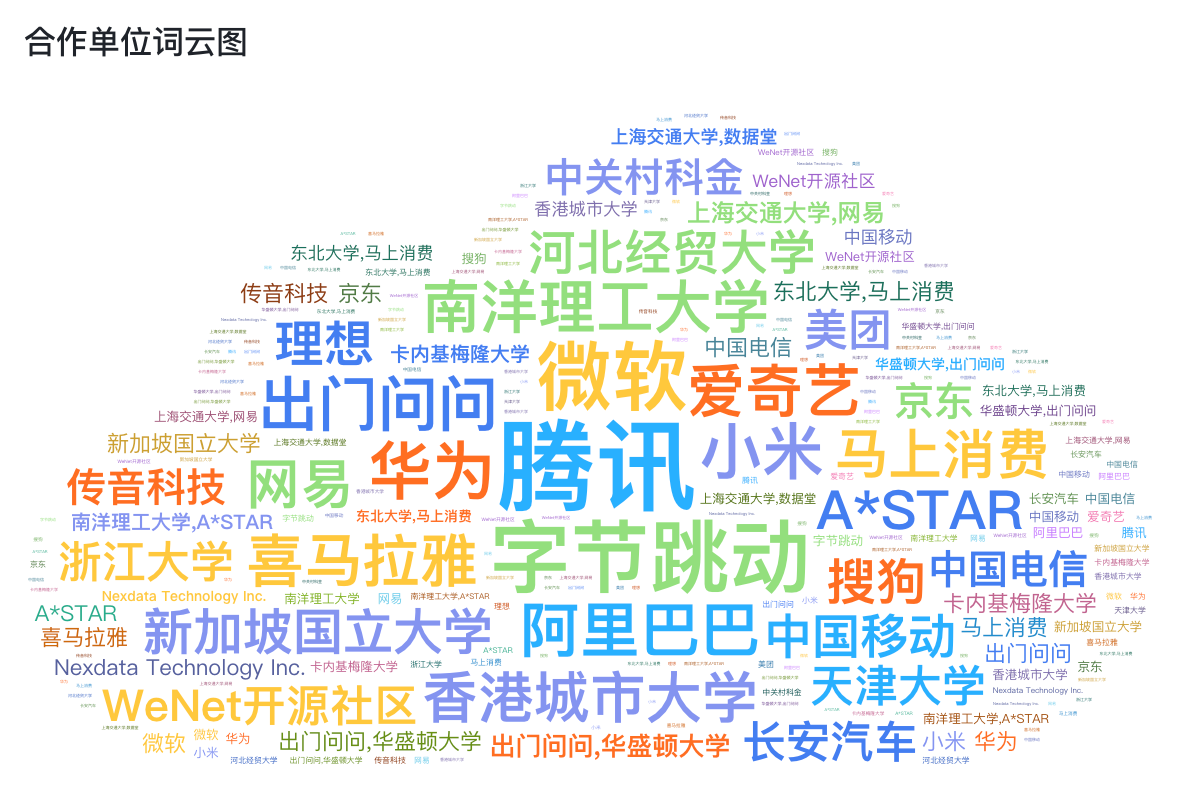
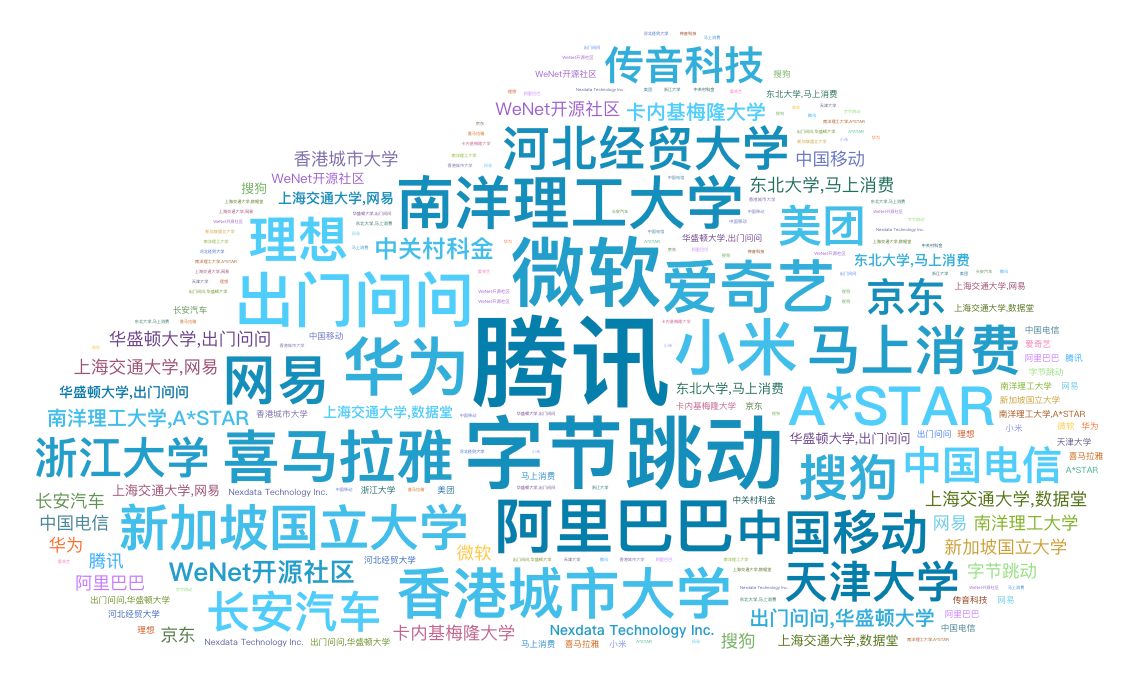
词云图更新；竞赛更新

diff --git a/_pages/about_en.md b/_pages/about_en.md
@@ -106,7 +106,7 @@ By combining academic depth, engineering strength, and industrial relevance, ASL
 
 ### Recent Publications
 
-<img src="{{ '/assets/img/collaborators_cloud_en2.png' | relative_url }}" alt="Collaborators" style="width:80%; border-radius:6px; margin-bottom:1rem;">
+<img src="{{ '/assets/img/pub_topic_cloud_en.png' | relative_url }}" alt="Collaborators" style="width:80%; border-radius:6px; margin-bottom:1rem;">
 
 {% include selected_papers.liquid %}
 

diff --git a/_news/announcement_2026_icassp.md b/_news/announcement_2026_icassp.md
@@ -6,4 +6,4 @@ related_posts: false
 lang: zh
 ---
 
-8 篇论文被 **ICASSP 2026** 接收
+8 篇论文被 [ICASSP 2026](https://2026.ieeeicassp.org/event/about-conference/) 接收

diff --git a/_news/announcement_2026_icassp_en.md b/_news/announcement_2026_icassp_en.md
@@ -6,4 +6,4 @@ related_posts: false
 lang: en
 ---
 
-8 papers accepted by **ICASSP2026**
+8 papers accepted by [ICASSP2026](https://2026.ieeeicassp.org/event/about-conference/)

diff --git a/_news/announcement_2026_icme.md b/_news/announcement_2026_icme.md
@@ -6,4 +6,4 @@ related_posts: false
 lang: zh
 ---
 
-4 篇论文被 **ICME 2026** 录用。
+4 篇论文被 [ICME 2026](https://2026.ieeeicme.org/) 录用

diff --git a/_news/announcement_2026_icme_en.md b/_news/announcement_2026_icme_en.md
@@ -6,4 +6,4 @@ related_posts: false
 lang: en
 ---
 
-4 papers accepted by **ICME2026**.
+4 papers accepted by [ICME2026](https://2026.ieeeicme.org/)
